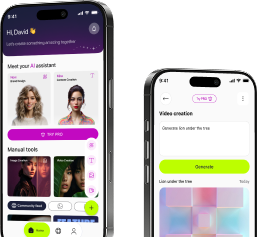
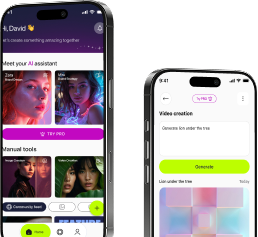
Added page for Strategy Assistant

Changed region(s): [[0.0, 0.0295, 0.4031, 1.0], [0.3411, 0.0886, 0.4031, 0.1477], [0.3101, 0.0295, 0.4031, 0.0591]]

diff --git a/src/components/common/ai/SmartSupport.jsx b/src/components/common/ai/SmartSupport.jsx
@@ -3,6 +3,11 @@ import { motion, useInView } from "framer-motion";
 
 function SmartSupport({ currentKey }) {
   const content = {
+    strategyAssistant: {
+      heading: ["Strategy AI:", "Insight", "into Action"],
+      description:
+        "Big goals need smart planning. Your AI assistant helps analyze data, map strategies, and align execution—so you can focus on outcomes, not guesswork.",
+    },
     brandDesigner: {
       heading: ["Brand Designer AI:", "Build Brands", "That Stand Out"],
       description:
@@ -26,6 +31,36 @@ function SmartSupport({ currentKey }) {
   };
 
   const features = {
+    strategyAssistant: [
+      {
+        image: "/ai-assistants/smart-support/strategy-assistant/1.png",
+        classname:
+          "rounded-[9px] h-[66px] w-[66px] bg-[#edd1e0] rotate-[-12deg]",
+        text: "Generate moodboards, palettes, and style tiles.",
+      },
+      {
+        text: "Create logos, social kits, and print-ready files.",
+        image: "/ai-assistants/smart-support/strategy-assistant/2.png",
+      },
+      {
+        text: " Apply brand rules automatically across visuals.",
+        image: "/ai-assistants/smart-support/strategy-assistant/3.png",
+      },
+      {
+        image: "/ai-assistants/smart-support/strategy-assistant/4.png",
+        classname:
+          "rounded-[999px] h-[66px] w-[66px] bg-[#edd1e0] rotate-[-12deg]",
+        text: "Collaborate with teams or clients in real-time.",
+      },
+      {
+        image: "/ai-assistants/smart-support/strategy-assistant/5.svg",
+        text: "Export in all major formats, instantly.",
+      },
+      {
+        image: "/ai-assistants/smart-support/6.png",
+        text: "Stay inspired with design trend insights.",
+      },
+    ],
     brandDesigner: [
       {
         image: "/ai-assistants/smart-support/brand-designer/1.png",
@@ -247,8 +282,8 @@ function SmartSupport({ currentKey }) {
       animate={isInView ? "visible" : "hidden"}
       className="xl:py-20 py-10"
     >
-      <div className="max-w-[90%] mx-auto bg-[#1B1F3B] rounded-[39px] text-[#FFFFFF] px-10 py-20">
-        <div className="flex md:gap-[67px] gap-[40px] xl:flex-row flex-col">
+      <div className="max-w-[90%] mx-auto bg-[#1B1F3B] rounded-[39px] text-[#FFFFFF] px-10 py-10">
+        <div className="flex md:gap-[67px] gap-[40px] xl:flex-row flex-col items-center">
           <motion.div
             variants={leftContentVariants}
             className="flex flex-col gap-[35px] xl:max-w-[40%]"

diff --git a/src/components/common/ai/Work.jsx b/src/components/common/ai/Work.jsx
@@ -1,10 +1,44 @@
 "use client";
-import { usePathname } from "next/navigation";
 import React, { useRef } from "react";
 import { motion, useInView } from "framer-motion";
 
 function Work({ currentKey }) {
   const sectionData = {
+    strategyAssistant: {
+      heading: ["How ", "Mira", " Empowers Strategy Assistant"],
+      description:
+        "With Mira, you can enhance your strategic workflows using powerful AI support. From turning insights into actionable roadmaps to aligning teams around clear priorities, Mira helps you plan smarter, adapt faster, and make confident, data-driven decisions that move your business forward.",
+      data: [
+        {
+          id: 1,
+          logo: "/ai-assistants/strategy-assistant/1.svg",
+          title: "Refine Strategic Thinking",
+          content:
+            "Generate market insights, SWOT analyses, and competitive positioning in seconds. Mira helps you focus on making bold, data-backed strategic moves.",
+        },
+        {
+          id: 2,
+          logo: "/ai-assistants/strategy-assistant/2.svg",
+          title: "Visualize Actionable Roadmaps",
+          content:
+            "Transform goals into interactive strategic roadmaps, complete with timelines, milestones, and dependencies—perfectly aligned with business objectives.",
+        },
+        {
+          id: 3,
+          logo: "/ai-assistants/strategy-assistant/3.svg",
+          title: "Built for Strategic Planners",
+          content:
+            "Automate research summaries, stakeholder alignment decks, and framework creation like OKRs or 7Ps—so you spend less time structuring and more time thinking.",
+        },
+        {
+          id: 4,
+          logo: "/ai-assistants/strategy-assistant/4.svg",
+          title: "Plan & Execute with Confidence",
+          content:
+            "From idea to execution, Mira supports you in building clear strategies, measuring KPIs, and adapting plans in real-time—ensuring strategy turns into results.",
+        },
+      ],
+    },
     brandDesigner: {
       heading: ["How ", "Zara", " Empowers do Brand design"],
       description:

diff --git a/src/components/common/ai/Workflow.jsx b/src/components/common/ai/Workflow.jsx
@@ -3,6 +3,36 @@ import { motion, useInView } from "framer-motion";
 
 function Workflow({ currentKey }) {
   const workflowFeatures = {
+    strategyAssistant: {
+      text: "Meet your intelligent business advisor—built to support strategists and entrepreneurs in mapping growth. Whether you're launching, scaling, or pivoting, this AI helps you build plans with confidence.",
+      workflow: [
+        {
+          id: 1,
+          icon: "/ai-assistants/workflow/strategy-assistant/1.svg",
+          text: "Market-aware strategy models",
+        },
+        {
+          id: 2,
+          icon: "/ai-assistants/workflow/strategy-assistant/2.svg",
+          text: "Evolves with performance",
+        },
+        {
+          id: 3,
+          icon: "/ai-assistants/workflow/strategy-assistant/3.svg",
+          text: "Real-time KPI tracking",
+        },
+        {
+          id: 4,
+          icon: "/ai-assistants/workflow/strategy-assistant/4.svg",
+          text: "Integrates with CRM tools",
+        },
+        {
+          id: 5,
+          icon: "/ai-assistants/workflow/strategy-assistant/5.svg",
+          text: "Dynamic goal customization",
+        },
+      ],
+    },
     brandDesigner: {
       text: "Meet your intelligent brand companion—built to support designers in creating logos, color palettes, and full brand systems. Whether you’re launching a startup or refreshing a legacy, this AI brings clarity and creativity to every design.",
       workflow: [

diff --git a/src/components/common/ai/ContentCreation.jsx b/src/components/common/ai/ContentCreation.jsx
@@ -4,6 +4,23 @@ import { motion, useInView } from "framer-motion";
 
 function ContentCreation({ currentKey }) {
   const flexData = {
+    strategyAssistant: [
+      {
+        id: 1,
+        content:
+          "Access instant insights on competitors, customer behavior, and emerging trends. Let your AI assistant surface what matters—so you can plan with clarity.",
+      },
+      {
+        id: 2,
+        content:
+          "From business models to go-to-market plans, create structured strategies tailored to your goals, timelines, and target markets.",
+      },
+      {
+        id: 3,
+        content:
+          "Monitor progress, adjust your plans in real time, and stay aligned with your key metrics—your AI assistant keeps you focused and future-ready.",
+      },
+    ],
     brandDesigner: [
       {
         id: 1,
@@ -75,6 +92,17 @@ function ContentCreation({ currentKey }) {
   };
 
   const assistants = {
+     strategyAssistant: {
+      id: 1,
+      title: "Strategy Assistant",
+      image: "/ai-assistants/strategy-assistant.png",
+
+      steps: [
+        "Analyze trends and opportunities",
+        "Build smart business roadmaps",
+        "Forecast growth and track KPIs",
+      ],
+    },
     brandDesigner: {
       id: 1,
       title: "Brand Designer",

diff --git a/src/components/common/ai/Hero.jsx b/src/components/common/ai/Hero.jsx
@@ -1,6 +1,5 @@
 'use client';
 import React from "react";
-import { usePathname } from "next/navigation";
 import { motion } from "framer-motion";
 
 function Hero({currentKey}) {
@@ -13,6 +12,14 @@ function Hero({currentKey}) {
       mainImage: "/ai-assistants/brand-designer/zara.jpg",
       leftImage: "/ai-assistants/brand-designer/hero-1.png",
       rightImage: "/ai-assistants/brand-designer/hero-3.png",
+    },
+     strategyAssistant: {
+      title: "Meet Mira - Strategy assistant",
+      description:
+        "Streamline your workflow with smart layout suggestions, auto wireframes, and consistent UI support. Mano lets you spend less time on repetitive tasks and more time designing great user experiences.",
+      mainImage: "/ai-assistants/strategy-assistant/mira.jpg",
+      leftImage: "/ai-assistants/strategy-assistant/hero-1.png",
+      rightImage: "/ai-assistants/strategy-assistant/hero-3.png",
     },
     contentWriter: {
       title: "Meet Sana – Content Writer",
